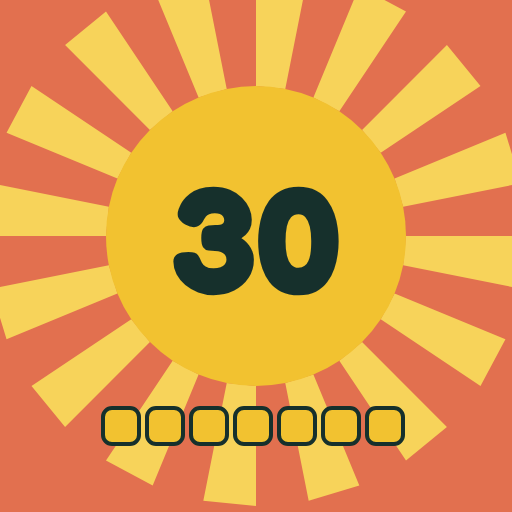
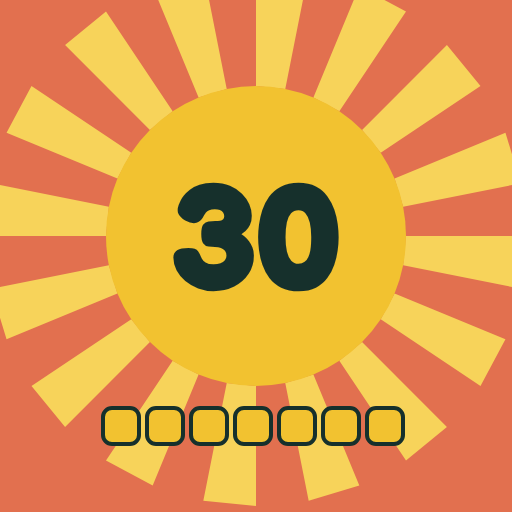
Achievement images: centre the number in the sun
Claude-Session: https://claude.ai/code/session_01Gz6UpCNqeV6v9yfsNTJcE1

diff --git a/ios/scripts/art.js b/ios/scripts/art.js
@@ -64,7 +64,7 @@ function badge(a) {
     const streak = /row/.test(art.label || ""), daily = /day/.test(art.label || "");
     sky = daily ? C.coral : streak ? C.deep : C.teal;
     scene = sunRays(256, 236, 150, 270, 16, daily ? C.sun : streak ? C.teal : C.sea) + `<circle cx="256" cy="236" r="150" fill="${C.gold}"/>`
-      + `<text x="256" y="${String(art.number).length > 3 ? 280 : 292}" text-anchor="middle" font-family="Fredoka" font-weight="700" font-size="${String(art.number).length > 3 ? 120 : 150}" fill="${C.ink}">${art.number}</text>`
+      + `<text x="256" y="${String(art.number).length > 3 ? 277 : 288}" text-anchor="middle" font-family="Fredoka" font-weight="700" font-size="${String(art.number).length > 3 ? 120 : 150}" fill="${C.ink}">${art.number}</text>`
       + (daily ? Array.from({ length: 7 }, (_, i) => `<rect x="${103 + i * 44}" y="408" width="36" height="36" rx="9" fill="${i < art.number % 8 || art.number >= 7 ? C.gold : C.cream}" stroke="${C.ink}" stroke-width="4"/>`).join("")
          : streak ? Array.from({ length: 5 }, (_, i) => `<rect x="${126 + i * 54}" y="${420 - i * 14}" width="44" height="${40 + i * 14}" rx="8" fill="${i % 2 ? C.cream : C.gold}"/>`).join("")
                 : hill(S, 470, 256, 410, C.mint, 0.9));
